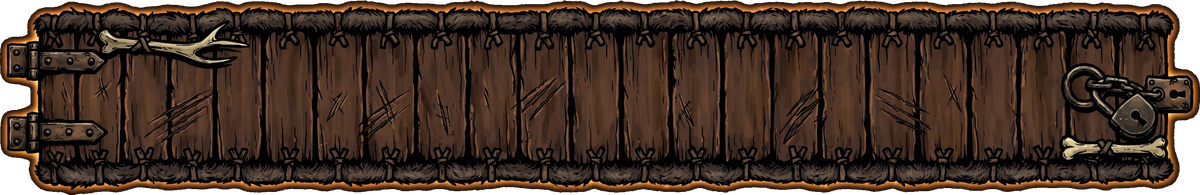
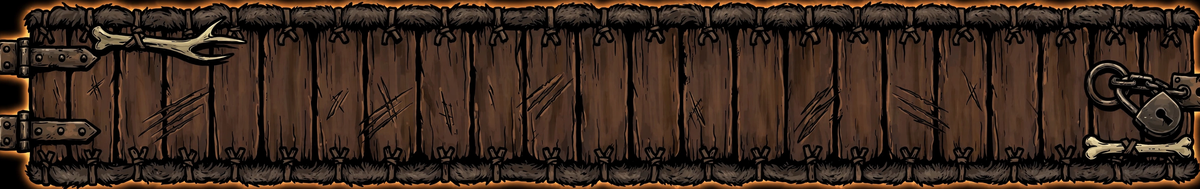
#764: floor variants for all themes (56 images), opaque door crops, aberration used-challenge redo

diff --git a/tools/cutout-room-feature-art.py b/tools/cutout-room-feature-art.py
@@ -55,15 +55,24 @@ for src in sorted(p for p in raw.glob("*/*") if p.suffix.lower() in (".webp", ".
     rgb = Image.open(src).convert("RGB")
     if kind.startswith("door"):
         # Top-down strip. A white background (hand-made) or a flat black one
-        # (OpenRouter, with a soft glow that is kept as a thin aura) is keyed out
-        # from the border, then the strip is cropped to what is left.
+        # (OpenRouter, with a soft glow) is cropped to the door, opaque.
         corners = [rgb.getpixel(c) for c in ((2, 2), (rgb.width - 3, 2), (2, rgb.height - 3), (rgb.width - 3, rgb.height - 3))]
         dark = sum(sum(c) / 3 for c in corners) / 4 < 60
         if dark:
-            im = key_bg(rgb, lambda p: p[0] < 30 and p[1] < 30 and p[2] < 30)
+            # Keep the door opaque: a flood fill leaks through the door's dark
+            # ink outline into the planks. Crop to the rows/columns whose mean
+            # brightness shows the door (the black background and its faint
+            # glow stay below the cut).
+            gray = rgb.convert("L")
+            cols = gray.resize((gray.width, 1), Image.BOX)
+            rows = gray.resize((1, gray.height), Image.BOX)
+            cut = 38
+            xs = [x for x in range(gray.width) if cols.getpixel((x, 0)) > cut]
+            ys = [y for y in range(gray.height) if rows.getpixel((0, y)) > cut]
+            im = rgb.convert("RGBA").crop((xs[0], ys[0], xs[-1] + 1, ys[-1] + 1))
         else:
             im = key_bg(rgb, lambda p: p[0] > 228 and p[1] > 228 and p[2] > 228)
-        im = im.crop(im.getbbox())
+            im = im.crop(im.getbbox())
         im = im.resize((1200, round(1200 * im.height / im.width)), Image.LANCZOS)
     else:
         if session is None:
